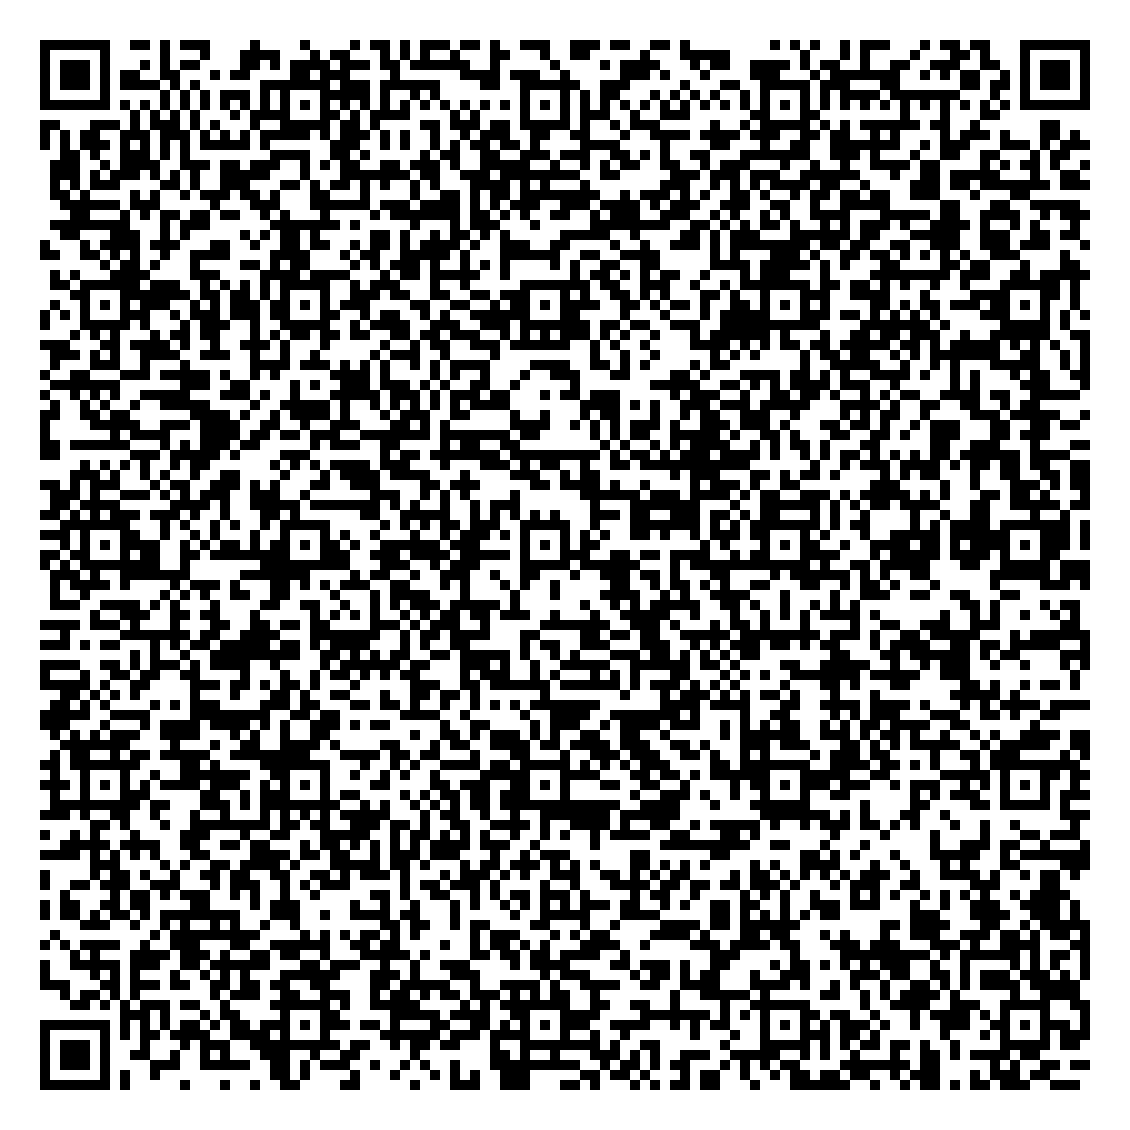
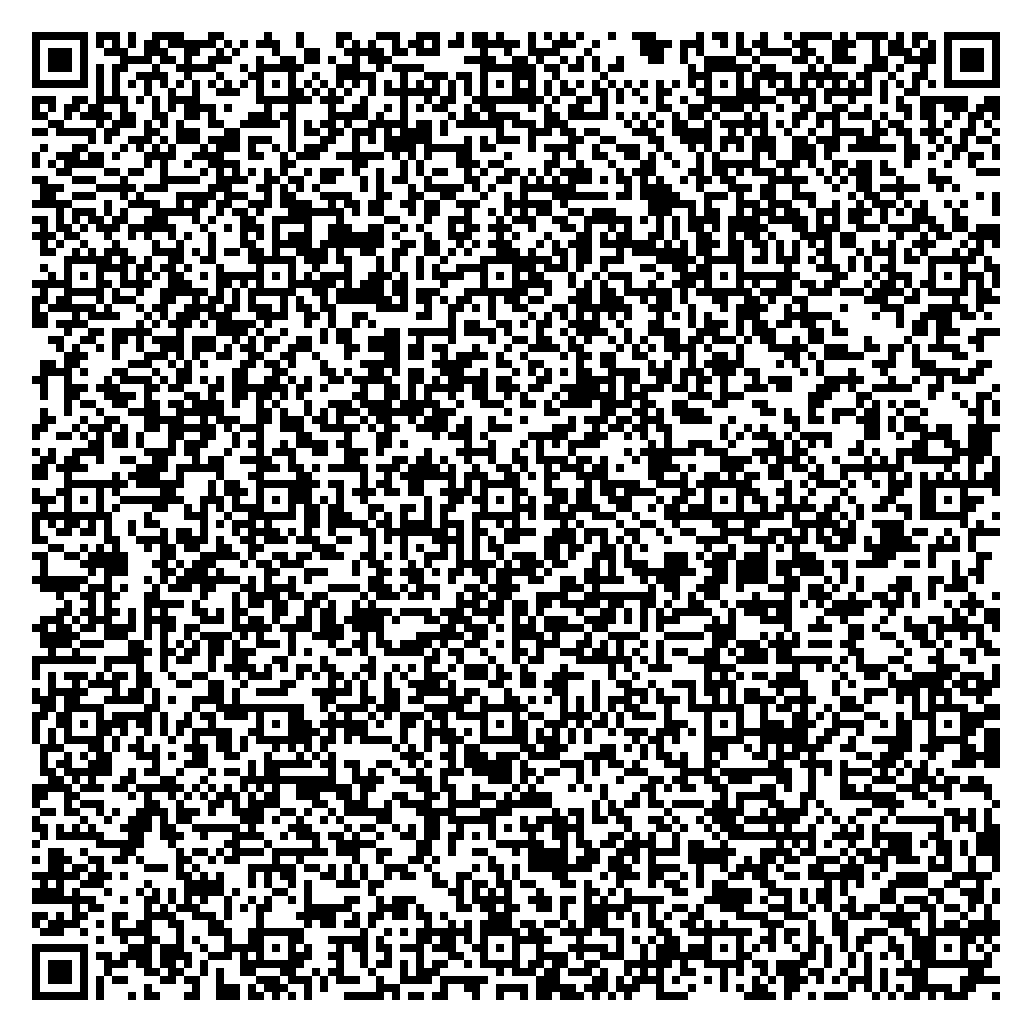
Add public URL to packed game link and regenerate QR code
pack.py now builds the full https link to play.html on GitHub Pages.
qr.png encodes that link (version 26, error correction L) and was verified
to decode back to the same text with zxing. The page was checked in a
headless browser at the public address.

Claude-Session: https://claude.ai/code/session_01LEUqYZKqgbnPPrgcYEnBcQ

diff --git a/qr-game/pack.py b/qr-game/pack.py
@@ -11,6 +11,7 @@ import zlib
 
 ALPHA = "0123456789ABCDEFGHIJKLMNOPQRSTUVWXYZ$*+-./:"  # 43 Zeichen, QR-Alphanumerik-Zeichensatz
 HERE = pathlib.Path(__file__).parent
+BASE = "https://mikavkl.github.io/Browseroptimization/qr-game/play.html"  # oeffentliche Adresse von play.html
 
 
 def minify(src: str) -> str:
@@ -66,7 +67,7 @@ new Response(new Blob([new Uint8Array(b)]).stream().pipeThrough(new Decompressio
 })();
 </script>"""
     (HERE / "play.html").write_text(page + "\n", encoding="utf-8")
-    link = f"play.html#{payload}"
+    link = f"{BASE}#{payload}"
     (HERE / "link.txt").write_text(link + "\n", encoding="utf-8")
     print(f"Code: {len(code)} Zeichen, gepackt: {len(packed)} Bytes, Link: {len(link)} Zeichen")
     print(link)
